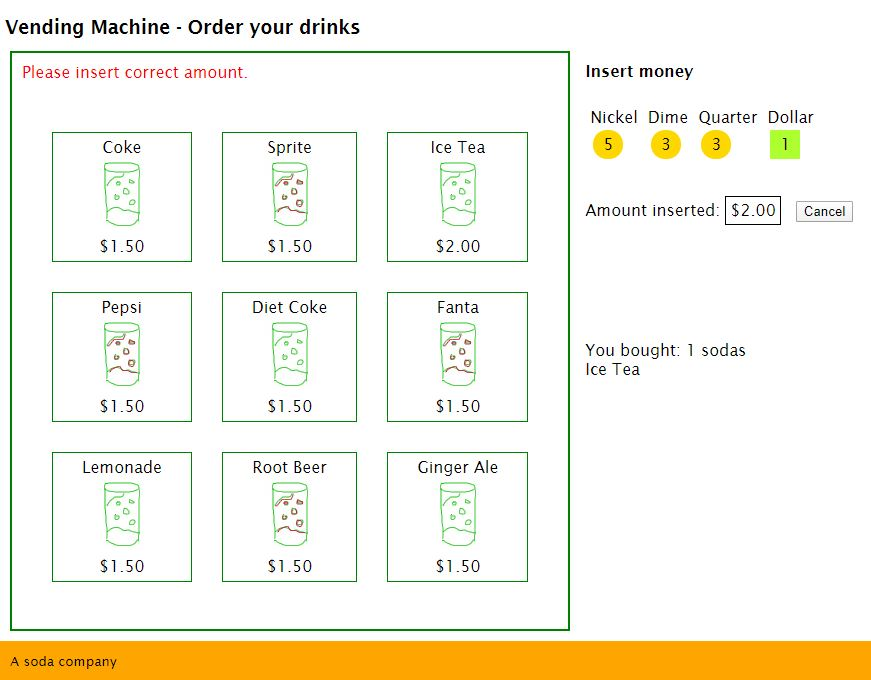
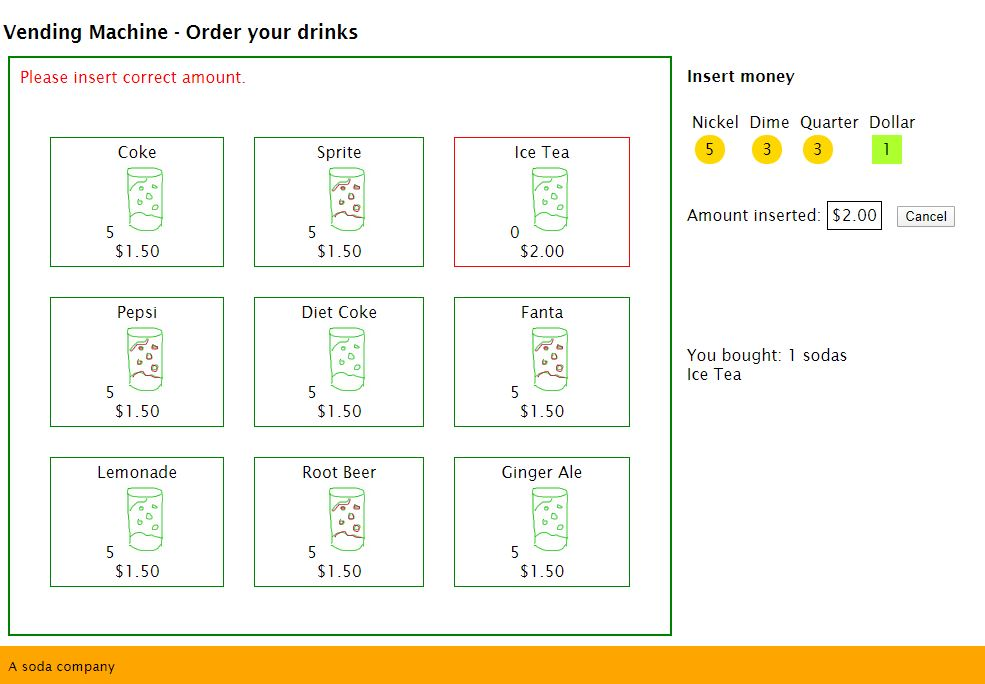
displays red on soldout, add stockupdateObserver

Changed region(s): [[0.0, 0.0309, 1.0, 0.9882]]

diff --git a/src/app/shared/soda.service.ts b/src/app/shared/soda.service.ts
@@ -3,14 +3,16 @@ import { Subject } from 'rxjs';
 
 export class SodaService {
 
-    sodaChanged = new Subject();
+    sodaPurchased = new Subject();
+    sodaStockUpdate = new Subject();
 
     sodasBought = [];
 
+    sodaInventory : ISoda[] = [];
     sodas:ISoda[] = [
         {id: 1, name: 'Coke', price: 1.50, stock: 5, img : 'assets/img/soda.jpg'},
         {id: 2, name: 'Sprite', price: 1.50, stock: 5, img : 'assets/img/soda02.jpg'},
-        {id: 3, name: 'Ice Tea', price: 2.00, stock: 5, img : 'assets/img/soda.jpg'},
+        {id: 3, name: 'Ice Tea', price: 2.00, stock: 1, img : 'assets/img/soda.jpg'},
         {id: 4, name: 'Pepsi', price: 1.50, stock: 5, img : 'assets/img/soda02.jpg'},
         {id: 5, name: 'Diet Coke', price: 1.50, stock: 5, img : 'assets/img/soda.jpg'},
         {id: 6, name: 'Fanta', price: 1.50, stock: 5, img : 'assets/img/soda02.jpg'},
@@ -20,15 +22,23 @@ export class SodaService {
     ];
 
     getSodas() {
+        this.sodaInventory = [...this.sodas];
         return this.sodas;
     }
 
-    buySoda(sodasBought: ISoda) {
-        this.sodasBought.push(sodasBought);
+    buySoda(sodaBought: ISoda) {
+        this.sodaInventory.forEach(s => {
+            if (s.id === sodaBought.id) {
+               s.stock --;
+            }
+        });
+
+        this.sodasBought.push(sodaBought);
         let soda = {
-            name: sodasBought.name
+            name: sodaBought.name
         }
-        this.sodaChanged.next(soda);
+       this.sodaPurchased.next(soda);
+       this.sodaStockUpdate.next(this.sodaInventory);
     }
 }
     

diff --git a/src/app/inventory/inventory.component.ts b/src/app/inventory/inventory.component.ts
@@ -1,24 +1,29 @@
-import { Component, OnInit } from '@angular/core';
+import { Component, OnInit, OnDestroy } from '@angular/core';
 import { ISoda } from '../shared/Soda.model';
 import { SodaService } from '../shared/soda.service';
 import { BankService } from '../shared/bank.service';
+import { Subscription } from 'rxjs';
 
 @Component({
   selector: 'app-inventory',
   templateUrl: './inventory.component.html',
   styleUrls: ['./inventory.component.scss']
 })
-export class InventoryComponent implements OnInit {
+export class InventoryComponent implements OnInit, OnDestroy {
 
+  sodaSubscription:Subscription;
   canBuy: boolean = true;
   moneyInserted: number;
-  sodaList:ISoda[];
+  sodaList: ISoda[] = [];
 
   constructor(private sodaService : SodaService, private bankService: BankService) { }
 
   ngOnInit(): void {
     //TODO use observables later
-    this.sodaList =  this.sodaService.getSodas();
+   this.sodaList =  [... this.sodaService.getSodas()];
+   this.sodaSubscription = this.sodaService.sodaStockUpdate.subscribe(sodaList => {
+     this.sodaList = [...this.sodaList];
+   })
   }
 
   onBuy(sodaSelected: ISoda):void {
@@ -34,6 +39,10 @@ export class InventoryComponent implements OnInit {
         console.log(" can't buy soda = " + sodaSelected.price);
       }
     })
+  }
+
+  ngOnDestroy(){
+    this.sodaSubscription.unsubscribe();
   }
 
 }

diff --git a/src/app/cart/cart.component.ts b/src/app/cart/cart.component.ts
@@ -10,20 +10,20 @@ import { ISoda } from '../shared/Soda.model';
 })
 export class CartComponent implements OnInit, OnDestroy {
 
-  sodaSubscription: Subscription;
+  sodaPurchasedSubscription: Subscription;
   cartItems = [];
 
   constructor(private sodaService: SodaService) { }
 
   ngOnInit(): void {
-    this.sodaSubscription = this.sodaService.sodaChanged
+    this.sodaPurchasedSubscription = this.sodaService.sodaPurchased
       .subscribe(s => {
         this.cartItems.push(s);
       })
   }
 
   ngOnDestroy(){
-    this.sodaSubscription.unsubscribe();
+    this.sodaPurchasedSubscription.unsubscribe();
   }
 
 }

diff --git a/src/app/inventory/inventory.component.html b/src/app/inventory/inventory.component.html
@@ -2,9 +2,10 @@
 <div class="good message" *ngIf="canBuy">Select your drink.</div>
 <div class="soda-container">
     <div *ngFor="let soda of sodaList" 
-        class="soda-button" 
+        [ngClass]="{'soda-button': true,'sold-out': soda.stock < 1}"
         (click)="onBuy(soda)">
         <div>{{ soda.name}}</div>
+        {{soda.stock}}
         <img src="{{ soda.img }}"/>
         <div>
             {{ soda.price| currency}}

diff --git a/src/app/bank/bank.component.html b/src/app/bank/bank.component.html
@@ -2,7 +2,8 @@
 <div *ngFor="let money of money" class="money-container">
  
     <div>{{ money.name}}</div>
-    <div [ngClass]="{coin:true, 'dollar': money.type==='dollar', 'no-money': money.amount === 0}"
+    <div [ngClass]="{coin:true, 'dollar': money.type==='dollar', 
+        'no-money': money.amount === 0}"
         (click)="insertMoney(money)">
         {{ money.amount}}
     </div> 

diff --git a/src/app/inventory/inventory.component.scss b/src/app/inventory/inventory.component.scss
@@ -17,3 +17,7 @@
 .message {
     padding: 10px;
 }
+
+.sold-out { 
+    border: 1px solid red;
+}
